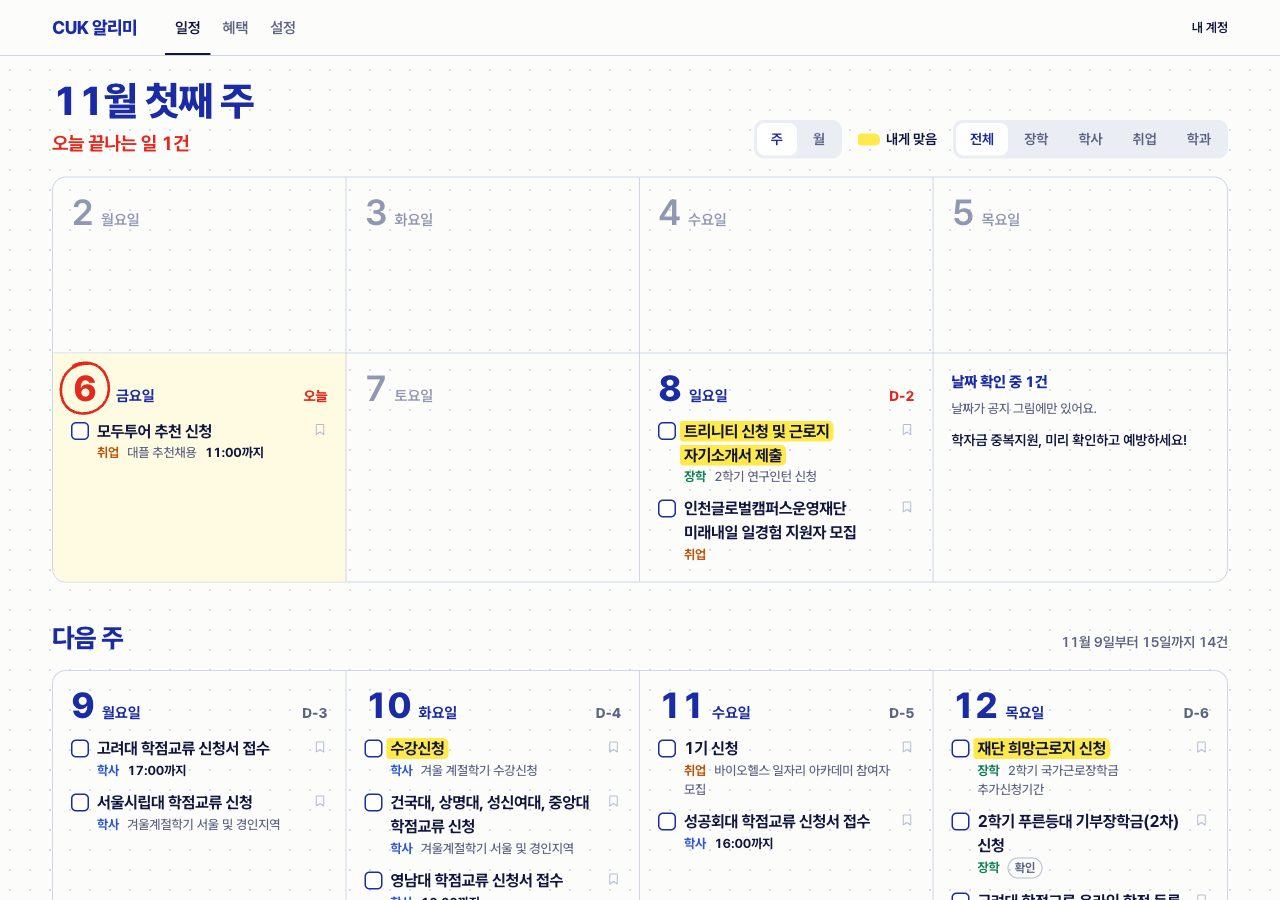
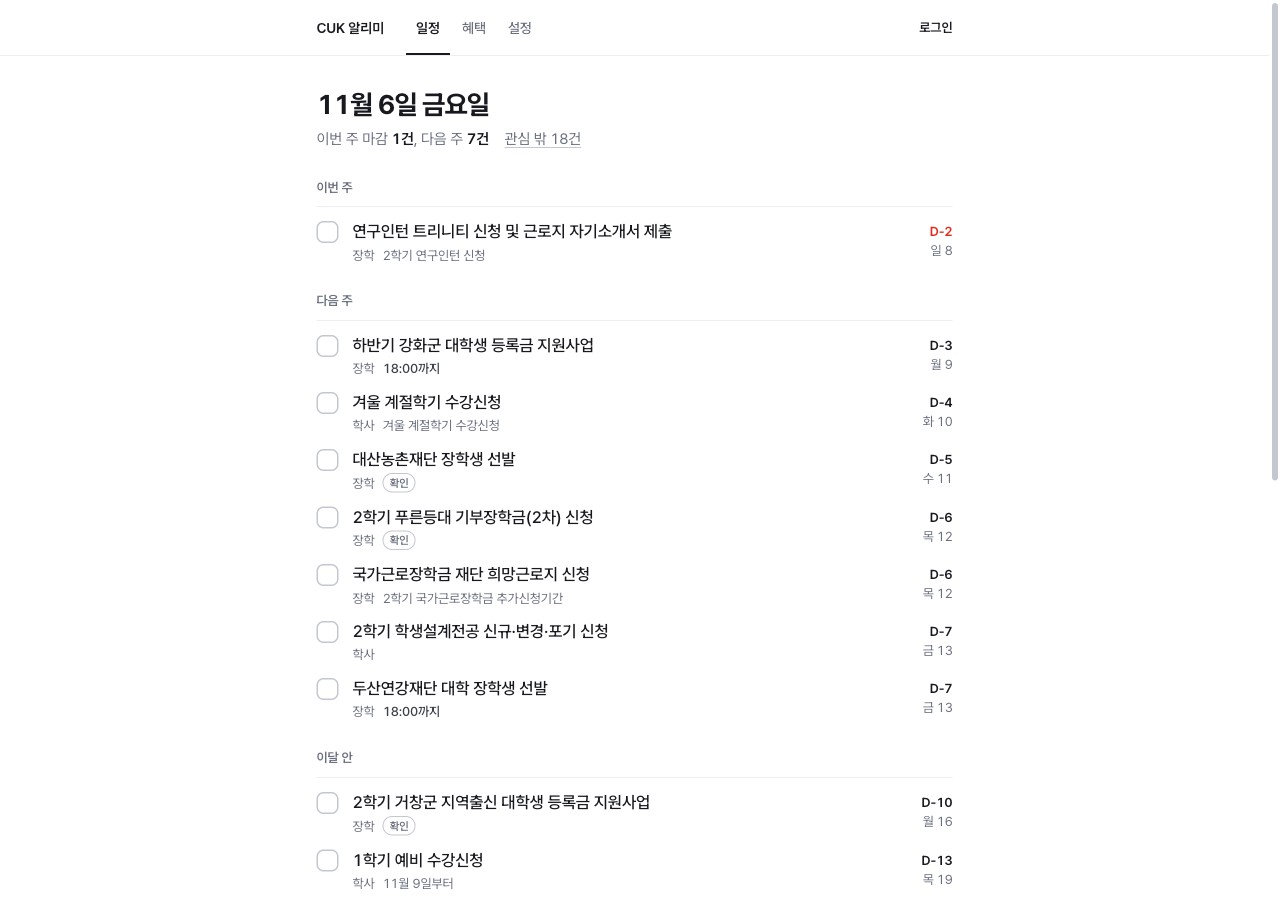
docs: README와 화면 사진을 목록 홈에 맞춘다
- 홈, 휴대폰, 관심 주제 사진을 다시 찍는다. 정답셋 공지를 로그인 전 상태로 띄운 화면이다
- 월 보기, 품질 페이지, 데모 GIF 사진을 지운다
- 소개, 알림, 홈 설명에서 월 보기와 푸시, 품질 페이지를 걷어내고 관심 밖 접기를 적는다
- 행 제목 점수를 공개 값(88/96, 남는 행 2)으로 맞춘다

diff --git a/web/src/app/globals.css b/web/src/app/globals.css
@@ -501,7 +501,7 @@ legend + * {
 }
 
 fieldset.topics {
-  margin: 0 0 16px;
+  margin: 14px 0 16px;
   padding: 0;
   border: 0;
 }

diff --git a/README.md b/README.md
@@ -1,18 +1,18 @@
 # CUK-Alimi
 
-> A deadline planner for Catholic University of Korea students. It reads school notices and the academic calendar, extracts what students must apply for or submit, and lays the deadlines out on a weekly and monthly planner.
+> A deadline planner for Catholic University of Korea students. It reads school notices and the academic calendar, extracts what students must apply for or submit, and lays the deadlines out as one list by date. Topics the student did not pick are folded away.
 
-가톨릭대 공지와 학사일정에서 신청·제출 마감을 뽑아 주간·월간 플래너로 보여 주는 개인 프로젝트입니다. 관심 주제 가운데 자격이 되는 일에는 형광펜을 칠하고, 아침 메일, 캘린더 구독, 푸시로 알려 줍니다.
+가톨릭대 공지와 학사일정에서 신청·제출 마감을 뽑아 날짜순 목록 하나로 보여 주는 개인 프로젝트입니다. 관심 주제의 일만 목록에 올리고 그중 자격이 되는 일에는 형광펜을 칠하며, 아침 메일과 캘린더 구독으로 알려 줍니다.
 
 **한눈에**
 
 | | |
 |---|---|
-| 무엇 | 학교 공지와 학사일정에서 학생이 할 일의 마감만 뽑아 주간 플래너와 월 달력에 펼친다. 내게 맞는 일에는 형광펜 |
+| 무엇 | 학교 공지와 학사일정에서 학생이 할 일의 마감만 뽑아 이번 주, 다음 주, 이달 안으로 묶은 목록에 올린다. 관심 주제 밖의 일은 접고, 내게 맞는 일에는 형광펜 |
 | 어떻게 | 날짜는 규칙이 뽑고, AI(Claude Haiku)는 그림 글자와 대상 조건을 옮겨 적기만 한다. 내 프로필 비교는 코드가 한다 |
 | 얼마나 맞나 | 마감 정밀도 0.977, 재현율 1.000(규칙을 고칠 때 본 89건), 처음 보는 공지 26건에서는 0.700 / 0.700. 형광펜은 따로 떼어 둔 69건에서 정규식보다 잘못 칠한 쌍이 870 대 1,530 |
-| 알림 | 아침 메일, 캘린더 구독, 웹 푸시(맥 Safari에서 수신 확인, 아이폰은 배포 뒤) |
-| 상태 | 배포 전, 사용자 0명. 백엔드 테스트 156건, 웹 테스트 23건 |
+| 알림 | 아침 메일, 캘린더 구독 |
+| 상태 | 배포 전, 사용자 0명. 백엔드 테스트 156건, 웹 테스트 42건 |
 
 ## 문제
 
@@ -20,27 +20,21 @@
 
 ## 서비스
 
-아직 배포 전이고 사용자는 0명입니다. 주소가 생기면 여기에 적습니다. 배포를 막는 것은 학교 robots.txt 문의(초안 `docs/robots-inquiry.md`)이고, 답이 오기 전에는 AI 키 없이 올립니다. 웹 푸시는 2026-11-06 맥 Safari에서 실제로 받아 봤습니다.
+아직 배포 전이고 사용자는 0명입니다. 주소가 생기면 여기에 적습니다. 배포를 막는 것은 학교 robots.txt 문의(초안 `docs/robots-inquiry.md`)이고, 답이 오기 전에는 AI 키 없이 올립니다.
 
-![주간·월간 보기를 오가며 날짜를 고르고 체크하는 데모](docs/images/demo.gif)
-
-| 주간 플래너 | 월 보기 |
-|---|---|
-| <img src="docs/images/home.jpg" alt="이번 주와 다음 주를 8칸으로 펼친 홈" width="440"> | <img src="docs/images/month.jpg" alt="일요일에 시작하는 월 달력" width="440"> |
-
-| 휴대폰 | 관심 주제 | 공개 정확도 페이지 |
+| 홈 | 휴대폰 | 관심 주제 |
 |---|---|---|
-| <img src="docs/images/mobile.jpg" alt="휴대폰 홈" width="220"> | <img src="docs/images/settings-topics.jpg" alt="설정의 관심 있는 일 고르기" width="300"> | <img src="docs/images/quality.jpg" alt="마감 정확도 페이지" width="300"> |
+| <img src="docs/images/home.jpg" alt="날짜 제목과 요약 한 줄 아래에 이번 주, 다음 주, 이달 안으로 묶은 할 일 목록" width="440"> | <img src="docs/images/mobile.jpg" alt="휴대폰 홈. 첫 화면에 할 일 여덟 개가 보인다" width="200"> | <img src="docs/images/settings-topics.jpg" alt="설정의 관심 있는 일 고르기" width="200"> |
 
-화면은 시험 계정(경영학과 2학년 2학기, 경기도 수원시, 기본 관심 주제)으로 찍었습니다.
+화면은 2026-11-06을 오늘로 두고, 정답셋에 저장해 둔 공지를 로그인 전 상태로 띄워 찍었습니다. 로그인 전에는 기본 관심 주제 다섯 개로 거르고 형광펜은 칠하지 않습니다. 설정 화면은 시험 계정입니다. 2026-11-14에 8칸 주간 판과 월 달력을 이 목록으로 바꿨고, 바꾸기 전 화면과 비교한 시안은 `docs/research/2026-11-14-home-directions/`에 있습니다 (ADR 015).
 
 ## 핵심 결정
 
 1. **근거 없는 날짜는 보여 주지 않는다.** 원문 링크가 있고 규칙이 읽어 낸 날짜만 화면에 나옵니다. 날짜를 못 읽은 공지는 추측하지 않고 "날짜 확인 중"에 접어 둡니다 (ADR 003).
 2. **AI는 글자만 옮기고 날짜는 규칙이 뽑는다.** 그림에만 날짜가 있는 공지는 Claude Haiku가 그림 글자를 그대로 받아 적고, 그 글을 글 공지와 같은 규칙에 넣습니다. AI에게 마감을 직접 물으면 그럴듯한 날짜를 지어내도 어디서 틀렸는지 알 수 없어서입니다. 같은 그림을 두 번 따로 읽어 날짜가 일치할 때만 자동으로 공개하고, 어긋나면 운영자에게 넘깁니다. 공개한 그림 날짜에는 행에 작은 "확인" 표시가 붙고, 학생이 "날짜가 달라요"를 누르면 바로 내리고 운영자가 고칩니다 (ADR 010).
-3. **정확도는 정답셋으로 잰다.** 공지 89건에 정답 마감을 붙여 두고, 코드가 바뀔 때마다 CI에서 다시 뽑아 비교합니다. 정밀도나 재현율이 떨어지거나 분류되지 않은 새 오류가 생기면 빌드가 깨집니다. 결과는 공개 페이지(`/quality`)에 그대로 보입니다 (ADR 011).
-4. **형광펜은 관심 주제와 자격의 교집합이다.** 학생이 고른 관심 주제(처음에는 학교 게시판 조회수가 가장 높은 수강·학적, 계절학기, 장학금, 근로·인턴장학, 졸업) 가운데 연고 지역, 학기, 학과로 걸리지 않는 일에만 칠합니다. 자격이 되어도 관심 밖이면 칠하지 않습니다. 좁은 대상의 공지는 지우지 않고 접습니다 (ADR 014). 소득이나 성적 조건은 판정하지 않습니다. 형광펜은 "내 것일 수 있다"는 표시이고 자격은 원문에서 확인해야 합니다 (ADR 008, 009).
-5. **AI는 대상 조건을 읽고 비교는 코드가 한다.** 공지가 들어오면 Claude Haiku가 학년·학과·연고 지역 조건을 두 번 따로 읽고, 같을 때만 씁니다. 학생 프로필은 AI에 보내지 않고 코드가 비교해 형광펜을 칠합니다. 칠한 이유는 캘린더 일정 설명과 그림 날짜 행의 "확인" 안에 있습니다. 처음에는 AI가 "4학기 이상 이수" 같은 학기 계산을 틀려 꺼 두었고, AI는 문장의 종류와 숫자만 옮기고 계산은 코드가 하도록 바꿨습니다. 지시문을 다듬을 때 보지 않은 공지 69건에 학생 2,700가지를 맞춰 재면 칠한 것 중 맞은 비율 91.4%, 칠해야 할 것 중 칠한 비율 50.8%로 정규식(71.9%, 21.4%)보다 낫습니다. 공지 단위로 모든 학생에게 맞게 칠한 수는 69건 중 54건 대 50건이라 차이는 네 건입니다. 정답지는 Opus가 적었고 그중 30건을 사람이 원문과 대조해 1건을 고쳤습니다 (ADR 013).
+3. **정확도는 정답셋으로 잰다.** 공지 89건에 정답 마감을 붙여 두고, 코드가 바뀔 때마다 CI에서 다시 뽑아 비교합니다. 정밀도나 재현율이 떨어지거나 분류되지 않은 새 오류가 생기면 빌드가 깨집니다. 결과는 아래 숫자 표와 `src/main/resources/quality/`에 그대로 남깁니다 (ADR 011).
+4. **형광펜은 관심 주제와 자격의 교집합이다.** 학생이 고른 관심 주제(처음에는 학교 게시판 조회수가 가장 높은 수강·학적, 계절학기, 장학금, 근로·인턴장학, 졸업) 가운데 연고 지역, 학기, 학과로 걸리지 않는 일에만 칠합니다. 자격이 되어도 관심 밖이면 칠하지 않습니다. 좁은 대상의 공지는 지우지 않고 접습니다 (ADR 014). 관심 주제 밖의 일도 홈에서 "관심 밖" 한 줄로 접고, 저장하면 목록으로 올라옵니다 (ADR 015). 소득이나 성적 조건은 판정하지 않습니다. 형광펜은 "내 것일 수 있다"는 표시이고 자격은 원문에서 확인해야 합니다 (ADR 008, 009).
+5. **AI는 대상 조건을 읽고 비교는 코드가 한다.** 공지가 들어오면 Claude Haiku가 학년·학과·연고 지역 조건을 두 번 따로 읽고, 같을 때만 씁니다. 학생 프로필은 AI에 보내지 않고 코드가 비교해 형광펜을 칠합니다. 칠한 이유는 캘린더 일정 설명과 행 제목의 툴팁에 있습니다. 처음에는 AI가 "4학기 이상 이수" 같은 학기 계산을 틀려 꺼 두었고, AI는 문장의 종류와 숫자만 옮기고 계산은 코드가 하도록 바꿨습니다. 지시문을 다듬을 때 보지 않은 공지 69건에 학생 2,700가지를 맞춰 재면 칠한 것 중 맞은 비율 91.4%, 칠해야 할 것 중 칠한 비율 50.8%로 정규식(71.9%, 21.4%)보다 낫습니다. 공지 단위로 모든 학생에게 맞게 칠한 수는 69건 중 54건 대 50건이라 차이는 네 건입니다. 정답지는 Opus가 적었고 그중 30건을 사람이 원문과 대조해 1건을 고쳤습니다 (ADR 013).
 6. **운영비 0원.** Oracle 무료 VM 한 대에 Docker Compose로 올립니다. AI 비용은 그림 1장을 두 번 읽어 약 $0.0015, 공지 대상 조건은 한 건을 두 번 읽어 약 $0.0005이고, 둘 다 하루 상한을 둡니다 (ADR 006, 010, 013).
 
 ## 숫자
@@ -53,7 +47,7 @@
 | 그림 공지 18건 | 1.000 / 1.000 |
 | 그림 받아 적기 비용 | 1회 약 $0.0007, 지금까지 15회에 $0.009 |
 | 형광펜 (시험용 69건, 지시문 고칠 때 안 본 셋) | 칠한 것 중 맞음 91.4%, 칠해야 할 것 중 칠함 50.8%. 공지 단위로 모두 맞은 공지 54/69(정규식 50/69) |
-| 화면 행 제목 (정답셋 97건, 마감 96개) | 86/96이 맞음(고치기 전 71/96), 정답에 없는 날의 행 5개. 홈과 같은 함수로 만든 행이 무엇의 일인지 알 낱말을 담았는지 본다 |
+| 화면 행 제목 (정답셋 97건, 마감 96개) | 88/96이 맞음(고치기 전 71/96), 정답에 없는 날의 행 2개. 홈과 같은 함수로 만든 행이 무엇의 일인지 알 낱말을 담았는지 본다 |
 | 사람이 확인한 정답 | 마감 10건, 형광펜 30건(1건 고침), 행 제목 0건 |
 
 0.886에서 0.977로 올리는 동안 백테스트가 두 번 변경을 막았습니다. 한 번은 "까지 학점교류"의 "학점"을 "2.5학점" 같은 수치로 보고 마감을 버리던 숨은 버그였고, 한 번은 라벨러 사이에 갈린 정답 기준이었습니다.
@@ -66,7 +60,7 @@
 - 그림에서 읽은 날짜는 두 번 읽기가 일치하면 사람 확인 없이 공개됩니다. 같은 모델이 같은 글자를 똑같이 잘못 읽으면 틀린 날짜가 나갈 수 있고, 시험에서 어긋난 사례가 없어 오류 검출력은 아직 재지 못했습니다.
 - 남은 오류는 특강 일정표의 "일정" 칸을 마감으로 읽는 2건입니다. 문장 속 마감("10월 3일 오전까지 자소서를 보내 주세요")은 2026-11-04에 읽게 했습니다. 이 수치는 규칙을 고칠 때 본 셋의 점수라 새 공지에서는 더 낮을 수 있습니다.
 - 학교 `robots.txt`가 막는 경로에서 공지 그림을 받습니다. 학교에 문의할지, 끄고 배포할지는 배포 직전에 정합니다 (ADR 010).
-- 아직 배포 전이라 실사용자 지표는 없습니다. 운영을 시작하면 검수 기록(`review_event`)이 같은 페이지에 쌓입니다.
+- 아직 배포 전이라 실사용자 지표는 없습니다. 운영을 시작하면 검수 기록(`review_event`)으로 같은 지표를 잽니다.
 
 ## AI를 어떻게 썼나
 
@@ -77,11 +71,11 @@
 ## 무엇을 하나요
 
 - 학사일정(수강신청, 수강신청 변경, 등록기간, 휴학·복학, 성적 정정)과 공지사항의 장학·학사·취업 글에서 학생이 해야 할 일의 마감만 골라 보여줍니다. 공문 제목 대신 "서강대 학점교류 신청"처럼 할 일로 적고, 누르면 학교 원문으로 갑니다.
-- 홈은 이번 주와 다음 주를 8칸 플래너로 펼칩니다. 이틀 안의 날짜는 빨갛게 표시되고, 끝낸 일은 체크해 지웁니다. 날짜가 그림에만 있어 확인 중인 공지는 메모 칸에, 다른 지역 장학과 특정 계층·분야 장학은 판 아래에 접어 둡니다. 머리글의 "주 | 월"로 일요일에 시작하는 월 달력으로 바꿔 달을 넘길 수 있고, 날짜를 누르면 그날 할 일이 같은 행으로 펼쳐집니다.
+- 홈은 한 열 목록입니다. 이번 주, 다음 주, 이달 안, 그 뒤로 묶고 행마다 남은 날을 적습니다. 이틀 안의 마감은 빨갛게 표시되고, 끝낸 일은 체크해 지웁니다. 접힌 줄은 셋입니다. 관심 주제 밖의 일은 "관심 밖"에, 다른 지역 장학과 특정 대상·다른 학과 공지는 "다른 대상"에, 날짜가 그림에만 있는 공지는 "날짜 확인 중"에 둡니다. 관심 밖의 일을 저장하면 목록으로 올라옵니다.
 - 대학생 자격으로 받는 혜택(개발 도구, 구독, 장학·학비)을 체크리스트로 관리합니다. 목록은 `src/main/resources/benefits.yml`에 있고, 항목마다 출처와 확인일이 붙어 있습니다.
 - 컴퓨터정보공학부 게시판도 읽습니다. 그 학과 학생에게는 내게 맞는 공지로, 다른 학생에게는 접힌 구간으로 갑니다. 다른 학과는 사용자가 생기면 `app.notice.boards`에 더합니다.
 - 캘린더 구독 주소를 구글·애플 캘린더에 넣으면 내게 맞는 마감과 저장한 마감이 자동으로 들어갑니다. 주소는 설정에서 새로 만들 수 있습니다.
-- 알림은 아침 8시에 갑니다. 메일 한 통에 새 공지, 저장한 마감 3일 전, 체크한 혜택 만료 7일 전을 묶고, 푸시를 켠 기기에는 내게 맞는 마감과 저장한 마감의 3일 전과 하루 전만 따로 보냅니다. 푸시는 `VAPID_PUBLIC_KEY`와 `VAPID_PRIVATE_KEY`가 없으면 꺼집니다(키는 `VAPID_GEN=1 ./gradlew test --tests '*VapidKeyRun'`으로 한 번 만듭니다). 보낼 것이 없는 날은 보내지 않고, 같은 사건은 한 번만 갑니다.
+- 알림은 아침 8시 메일 한 통입니다. 관심 주제의 새 공지, 저장한 마감 3일 전, 체크한 혜택 만료 7일 전을 묶습니다. 보낼 것이 없는 날은 보내지 않고, 같은 사건은 한 번만 갑니다. 웹 푸시는 화면에서 뺐고 서버 코드만 꺼진 채로 남아 있습니다 (ADR 015).
 - 그림 받아 적기와 대상 읽기는 `ANTHROPIC_API_KEY`를 주지 않으면 함께 꺼지고, 형광펜은 정규식으로 돌아갑니다.
 - 운영 점검. 아침에 수집이 멈췄으면 운영자에게 메일이 가고, `RUN_ONCE=audit`가 이상한 행을 표로 찍습니다. 학교가 지운 공지는 재확인에서 두 번 404가 나면 내리고, 다시 올린 공지는 옛 글을 묵힙니다.
 

diff --git a/docs/ops-log.md b/docs/ops-log.md
@@ -7,7 +7,7 @@
 ```
 ## 2026-MM-DD (주간)
 - 사용자: N명 (쿼리: select count(*) from app_user)
-- 발송: 푸시 N, 이메일 N (쿼리: ...)
+- 발송: 이메일 N (쿼리: ...)
 - 수집: 새 공지 N, 파싱 실패 N, 검수에서 고친 것 N
 - 정정 사건: 없음 / 내용
 - 사용자가 한 말: 
